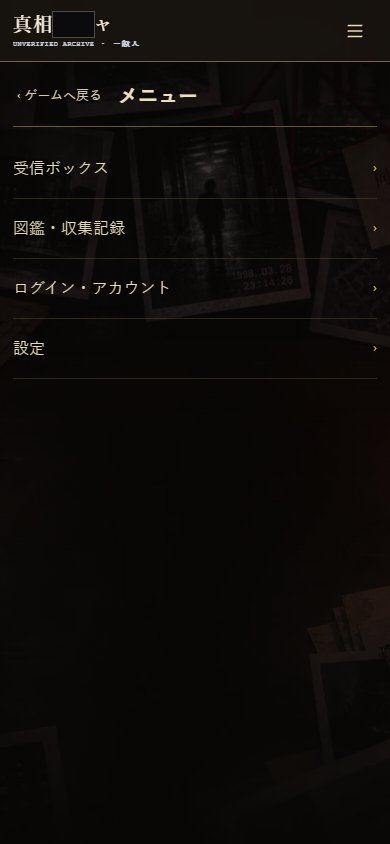
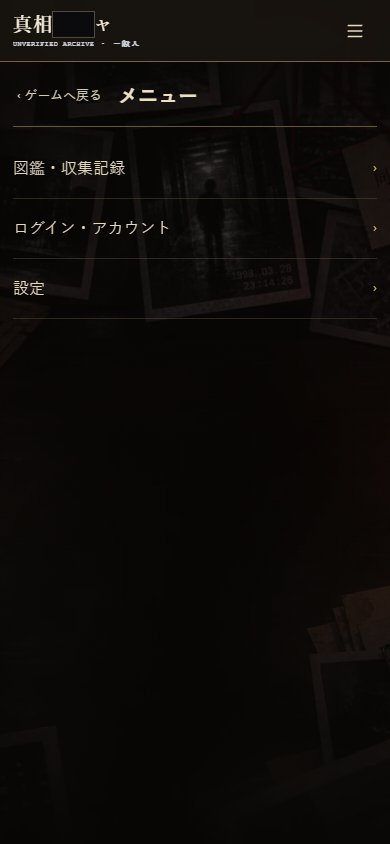
Keep agent inbox out of civilian mode (#241)

diff --git a/assets/menu.js b/assets/menu.js
@@ -77,12 +77,14 @@ function menuState(){
 // Do not present them as unread tasks before the player joins the department.
 // A future civilian notice must opt in explicitly with audience:'civilian'.
 function visibleGameNotices(){return isLite()?GAME_NOTICES.filter(n=>n.audience==='civilian'):GAME_NOTICES;}
+// Current mail is agent-only; future civilian mail must opt in explicitly.
+function visibleGameMail(){return isLite()?GAME_MAIL.filter(m=>m.audience==='civilian'):GAME_MAIL;}
 function renderMenuBadge(){
  const c=menuState();let delivered=false;
  for(const m of GAME_MAIL)if(!c.mail[m.id]&&m.when()){c.mail[m.id]={receivedAt:Date.now(),read:false,claimed:false};delivered=true;}
  if(delivered)markDirty();
  const news=visibleGameNotices().filter(n=>!c.readNotices.includes(n.id)).length;
- const mail=GAME_MAIL.filter(m=>c.mail[m.id]&&(!c.mail[m.id].read||(m.reward&&!c.mail[m.id].claimed))).length;
+ const mail=visibleGameMail().filter(m=>c.mail[m.id]&&(!c.mail[m.id].read||(m.reward&&!c.mail[m.id].claimed))).length;
  // Keep notices in the optional menu without distracting from the first letters.
  const quietIntro=!!introActive();
  document.getElementById('menu-dot').hidden=quietIntro||!(news+mail);
@@ -122,7 +124,8 @@ function returnFromMenu(){
 }
 function openGameMenu(){
  const n=renderMenuBadge();
- openMenuPage('メニュー',`<div class="game-menu-list">${!isLite()?'<button data-trail="guide"><span>調査の進め方</span><small>›</small></button>':''}${introActive()?'<button data-intro="skip"><span>導入を飛ばす</span><small>›</small></button>':''}${!isLite()?`<button data-menu="news" aria-label="運営からのお知らせ${n.news?'、未読'+n.news+'件':''}"><span>運営からのお知らせ</span><small aria-hidden="true">${n.news?'未読 '+n.news+'件':'›'}</small></button>`:''}<button data-menu="inbox" aria-label="受信ボックス${n.mail?'、未読または未受取'+n.mail+'件':''}"><span>受信ボックス</span><small aria-hidden="true">${n.mail?'要確認 '+n.mail+'件':'›'}</small></button><button data-menu="catalog"><span>図鑑・収集記録</span><small>›</small></button>${!isLite()?'<button data-menu="investigations"><span>都市伝説の調査</span><small>›</small></button>':''}<button data-menu="account"><span>ログイン・アカウント</span><small>›</small></button><button data-menu="settings"><span>設定</span><small>›</small></button></div>`);
+ const showInbox=!isLite()||visibleGameMail().some(m=>menuState().mail[m.id]);
+ openMenuPage('メニュー',`<div class="game-menu-list">${!isLite()?'<button data-trail="guide"><span>調査の進め方</span><small>›</small></button>':''}${introActive()?'<button data-intro="skip"><span>導入を飛ばす</span><small>›</small></button>':''}${!isLite()?`<button data-menu="news" aria-label="運営からのお知らせ${n.news?'、未読'+n.news+'件':''}"><span>運営からのお知らせ</span><small aria-hidden="true">${n.news?'未読 '+n.news+'件':'›'}</small></button>`:''}${showInbox?`<button data-menu="inbox" aria-label="受信ボックス${n.mail?'、未読または未受取'+n.mail+'件':''}"><span>受信ボックス</span><small aria-hidden="true">${n.mail?'要確認 '+n.mail+'件':'›'}</small></button>`:''}<button data-menu="catalog"><span>図鑑・収集記録</span><small>›</small></button>${!isLite()?'<button data-menu="investigations"><span>都市伝説の調査</span><small>›</small></button>':''}<button data-menu="account"><span>ログイン・アカウント</span><small>›</small></button><button data-menu="settings"><span>設定</span><small>›</small></button></div>`);
 }
 function menuBack(target='home'){return `<button class="menu-back" data-menu="${target}">‹ ${target==='home'?'メニュー':target==='news'?'お知らせ一覧':'受信ボックス'}</button>`;}
 function openGameNews(){const c=menuState();openMenuPage('運営からのお知らせ',menuBack()+`<div class="game-message-list">${visibleGameNotices().map(n=>`<button data-notice="${n.id}"><small>${n.date}${c.readNotices.includes(n.id)?'':' · 未読'}</small><b>${n.title}</b></button>`).join('')}</div>`);}
@@ -133,11 +136,11 @@ function mailReceivedTime(entry){
 function openGameInbox(){
  const c=menuState();
  // Keep the existing definition order for same-batch deliveries and old undated mail.
- const mail=GAME_MAIL.filter(m=>c.mail[m.id]).reverse().sort((a,b)=>mailReceivedTime(c.mail[b.id])-mailReceivedTime(c.mail[a.id]));
+ const mail=visibleGameMail().filter(m=>c.mail[m.id]).reverse().sort((a,b)=>mailReceivedTime(c.mail[b.id])-mailReceivedTime(c.mail[a.id]));
  openMenuPage('受信ボックス',menuBack()+`<p class="menu-muted">ゲーム内メール</p><div class="game-message-list">${mail.map(m=>`<button data-mail="${m.id}"><small>${m.from}${!c.mail[m.id].read?' · 未読':''}${m.reward&&!c.mail[m.id].claimed?' · 添付あり':''}</small><b>${m.title}</b></button>`).join('')||'<p class="menu-empty">届いたメールはありません。</p>'}</div>`);
 }
 function openGameMail(id){
- const m=GAME_MAIL.find(m=>m.id===id),c=menuState();if(!m||!c.mail[id])return;
+ const m=visibleGameMail().find(m=>m.id===id),c=menuState();if(!m||!c.mail[id])return;
  c.mail[id].read=true;markDirty();renderMenuBadge();
  const receivedAt=mailReceivedTime(c.mail[id]),d=receivedAt?new Date(receivedAt).toLocaleDateString('ja-JP'):'受信日時不明';
  // A saved letter alone is not proof that its classified dossier is still
@@ -160,7 +163,7 @@ document.addEventListener('click',e=>{
  if(b.dataset.menu){const actions={return:returnFromMenu,home:openGameMenu,news:openGameNews,inbox:openGameInbox,settings:openMenuSettings,observation:observationSettings,target:observationTargetPicker,account:openAccount,catalog:()=>openEncyclopedia(),investigations:()=>{returnFromMenu();openLegendBoard();}};const open=actions[b.dataset.menu];if(!open)return;return b.classList.contains('menu-back')?returnToMenuPage(b.dataset.menu,open):open();}
  if(b.dataset.notice){const n=visibleGameNotices().find(n=>n.id===b.dataset.notice);if(!n)return;const c=menuState();if(!c.readNotices.includes(n.id))c.readNotices.push(n.id);markDirty();renderMenuBadge();return openMenuPage('運営からのお知らせ',menuBack('news')+`<article class="game-message"><small>${n.date} · 運営</small><h2>${n.title}</h2><p>${n.body}</p></article>`);}
  if(b.dataset.mail)return openGameMail(b.dataset.mail);
- const id=b.dataset.mailClaim,m=GAME_MAIL.find(m=>m.id===id),entry=menuState().mail[id];
+ const id=b.dataset.mailClaim,m=visibleGameMail().find(m=>m.id===id),entry=menuState().mail[id];
  if(!m||!entry||entry.claimed||!m.reward)return;
  entry.claimed=true;S.currency+=m.reward;markDirty();render();openGameMail(id);
 });

diff --git a/docs/EXPERIENCE-DESIGN.md b/docs/EXPERIENCE-DESIGN.md
@@ -30,7 +30,7 @@
 
 画面名と分類切替は可能なら1段にまとめ、本文を押し下げる重複行を増やさない。分類は44px以上の操作領域を持ち、本文上に固定して重ねない。文字拡大では切り捨てず折り返す。診断にだけ関係する調査員証などの操作は、その本文側に置くが、診断カードと今日の報告より前には出さない。スマホの調査員画面では、共通ヘッダーの飾り情報よりタイトルと所持pt、調査室では説明の常設行より最初の強化対象を優先する。説明は削除せず必要時に開ける。実例と検証範囲は [画面ナビゲーション点検](SCREEN-NAVIGATION-AUDIT-2026-10-19.md)。
 
-メニューの新着は点や裸の数字だけで示さない。「何が」「何件」「なぜ要確認か」が目でも読み上げでも分かる短い語を添える。既読・受取後は古い件数を残さず、一覧へ戻ると再確認できるようにする。最初の封筒から一般人編の終わりまでは、調査員向けの機能案内を未読の負担として見せない。調査員になって初めて該当のお知らせを表示し、既読の記録は引き継ぐ。
+メニューの新着は点や裸の数字だけで示さない。「何が」「何件」「なぜ要確認か」が目でも読み上げでも分かる短い語を添える。既読・受取後は古い件数を残さず、一覧へ戻ると再確認できるようにする。最初の封筒から一般人編の終わりまでは、調査員向けのお知らせとまだ届かないメールの空箱を見せず、物語に必要な選択肢だけを残す。調査員になって初めて両方を表示し、既読・受取の記録は引き継ぐ。
 
 メニュー一覧は余白で項目を遠ざけすぎない。スマホの通常の表示高さでは設定まで見渡せる密度を優先しつつ、行の押下領域と文字のコントラストを削らない。短い画面や拡大文字では縦スクロールを許容する。
 

diff --git a/docs/CURRENT-SPEC.md b/docs/CURRENT-SPEC.md
@@ -108,7 +108,7 @@
 
 メニューのお知らせ件数は未読、受信ボックス件数は未読または添付未受取のメールを数える。重複するメールは1件として数え、メニュー一覧では「未読」「要確認」を件数に添え、下部メニューボタンと一覧項目の読み上げ名では対象と条件を明示する。既読・受取で即時更新し、件数が0になれば数値を消す。通知発生条件、保存状態、報酬は変更しない。
 
-現行のお知らせ7件はすべて調査員向けの機能案内のため、一般人編では未読件数に含めず、メニューにも出さない。導入中・完了後・スキップ後も一般人のメニューボタンは通知点と件数を表示しない。調査員になると、その時点で既読状態を保ったまま対象のお知らせと通常の通知表示を出す。メニュー自体と受信ボックス・設定は一般人編でも開ける。配信条件、保存内容、報酬は変えない。
+現行のお知らせ7件とゲーム内メールはすべて調査員向けのため、一般人編では未読件数に含めず、メニューにも「お知らせ」「受信ボックス」を出さない。旧保存に調査員向けメールがあっても一般人編では件数・本文・受取操作を見せない。調査員になると既読・受取状態を保って再表示する。将来の一般人向け通知は対象を明示した場合に限り表示する。メニュー自体と図鑑・アカウント・設定は一般人編でも開ける。配信条件、保存内容、報酬は変えない。
 
 メニュー一覧はスマホの短い表示領域でも「設定」に届きやすい60px以上の行を使う。操作面は44px以上を維持し、補助件数は14px以上の明るい文字で表示する。320px幅や文字拡大では横方向に切らず、必要なら縦スクロールで全項目へ到達できる。
 
